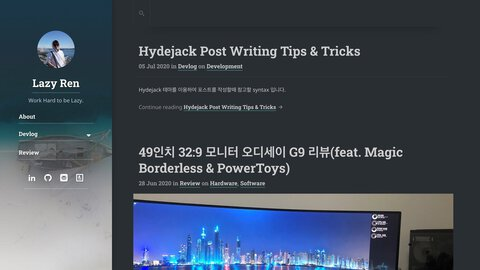
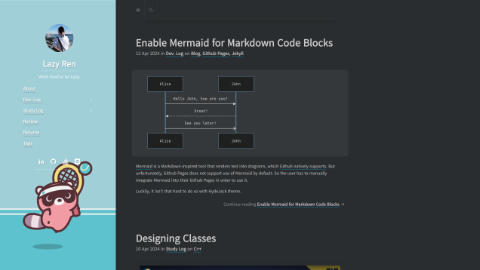
Update showcase

diff --git a/README.md b/README.md
@@ -11,13 +11,13 @@ buttons: |
   [Download](#download){:.btn.btn-primary}
   [Documentation](/docs){:.btn.btn-default}
 selected_projects:
-  - _showcase/nick-engmann.md
-  - /showcase/shawn-yeager/
+  - _showcase/shawn-yeager.md
+  - _showcase/lazyren.md
 projects_page: showcase.md
 selected_posts:
   - hydejack/_posts/2024-09-04-service-release-for-9-1.md
   - hydejack/_posts/2020-07-03-introducing-hydejack-9.md
-  - /blog/hydejack/2018-09-01-introducing-dark-mode/
+  - hydejack/_posts/2018-09-01-introducing-dark-mode.md
   - hydejack/_posts/2018-06-01-example-content-iii.md
 posts_page: /posts/
 no_third_column: true

diff --git a/_showcase/lazyren.md b/_showcase/lazyren.md
@@ -17,8 +17,10 @@ links:
     url: https://lazyren.github.io/
   - title: Blog Post
     url: https://lazyren.github.io/devlog/how-i-customized-hydejack-theme.html
-accent_image: https://lazyren.github.io/assets/img/sidebar-bg.jpg
-theme_color: rgb(25,55,71)
+accent_image: 
+  background: url('https://lazyren.github.io/assets/img/doguri.jpg') center/cover
+  overlay: false
+accent_color: rgb(0,174,239)
 ---
 
 DaeIn took customization to the next level.
